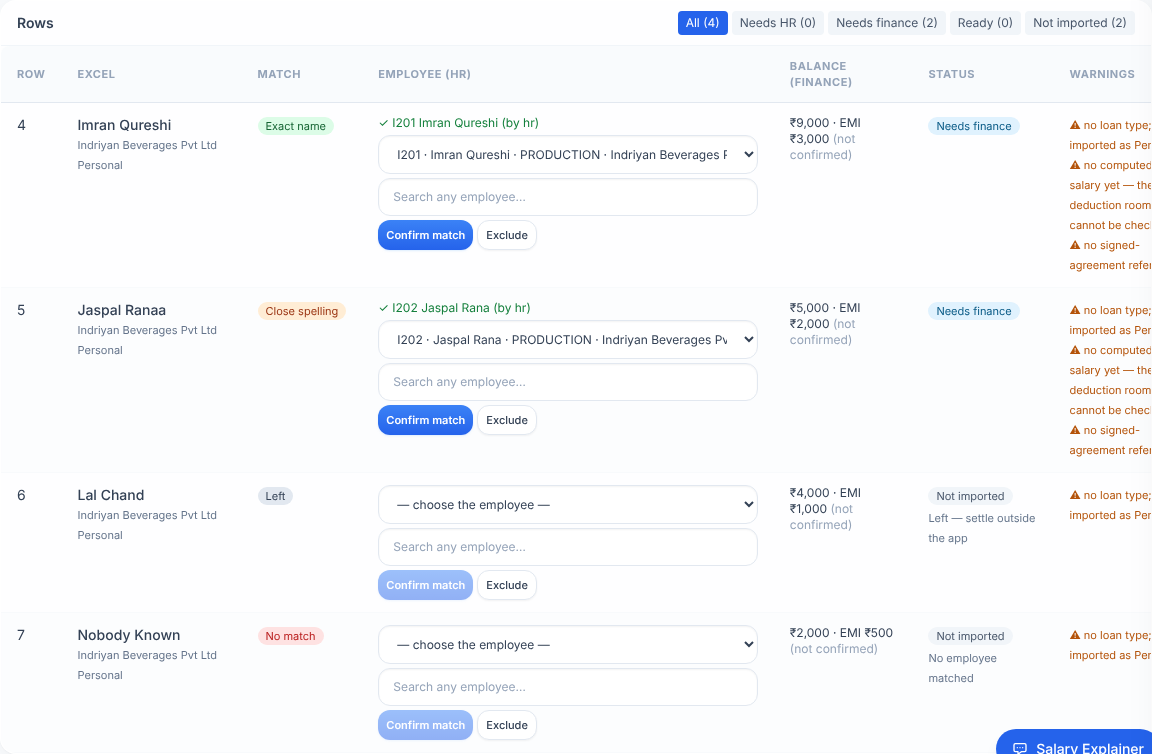
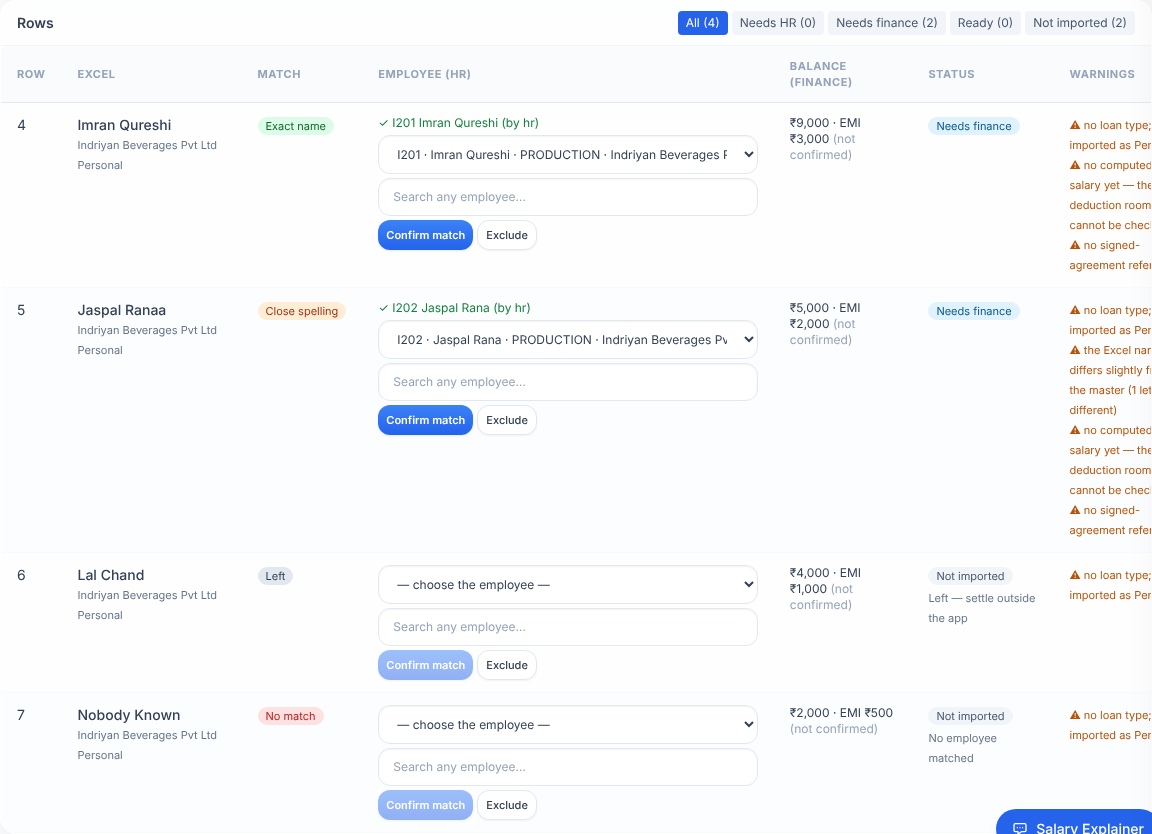
feat(loans-ui): import screen for code files — code tiers, balance-column hint and switch, name-differs note
Code tiers (Code match / name spelt differently / NAME DIFFERS), the code
shown beside the Excel name, a hint when the file has several balance
columns, a 'Balance and EMI columns' card for the uploader or admin
(resets finance confirmations), a note field when the names differ, and
balance inputs that refresh after a column change (EMI 0 cannot be
confirmed). Browser Pass 6: +7 checks on a synthetic Punch No file
(183/183 overall).

Claude-Session: https://claude.ai/code/session_01VCvRQJWVkbNaoEzGMzD9hk

diff --git a/frontend/src/components/loans/LoanImport.jsx b/frontend/src/components/loans/LoanImport.jsx
@@ -10,7 +10,7 @@ import toast from 'react-hot-toast'
 import clsx from 'clsx'
 import {
   downloadLoanImportTemplate, parseLoanImport, createLoanImportBatch, getLoanImportBatches, getLoanImportBatch,
-  confirmLoanImportMatch, excludeLoanImportRow, confirmLoanImportBalance, approveLoanImportBatch, discardLoanImportBatch,
+  confirmLoanImportMatch, excludeLoanImportRow, confirmLoanImportBalance, approveLoanImportBatch, discardLoanImportBatch, remapLoanImportColumns,
   getLoanImportCutoverCheck, downloadLoanImportCutoverCheck, searchLoanBorrowers,
 } from '../../utils/api'
 import { LOAN_COMPANIES, rupees, monthLabel, istDateTime, errText, sameUser } from './loanUi'
@@ -21,6 +21,9 @@ const TIER = {
   close: { label: 'Close spelling', cls: 'bg-orange-100 text-orange-800' },
   none: { label: 'No match', cls: 'bg-red-100 text-red-700' },
   inactive: { label: 'Left', cls: 'bg-slate-200 text-slate-700' },
+  code: { label: 'Code match', cls: 'bg-green-100 text-green-800' },
+  code_close: { label: 'Code · name spelt differently', cls: 'bg-lime-100 text-lime-800' },
+  code_mismatch: { label: 'Code · NAME DIFFERS', cls: 'bg-red-100 text-red-700' },
 }
 const STATE = {
   needs_match: { label: 'Needs HR', cls: 'bg-amber-100 text-amber-800' },
@@ -132,6 +135,12 @@ function UploadPanel({ onCreated }) {
                 ? `Sheet "${parsed.sheetName}", header on row ${parsed.headerRow}: ${parsed.rowCount} rows (${parsed.invalidCount} with a problem). Check the column mapping, then create the batch.`
                 : `Map the columns: ${parsed.error}`}
             </div>
+            {(parsed.balanceColumns || []).length > 1 && (
+              <div className="rounded-lg bg-sky-50 text-sky-800 px-3 py-2 text-xs" data-testid="imp-balance-hint">
+                The file has {parsed.balanceColumns.length} balance columns ({parsed.balanceColumns.map((i) => `"${(parsed.headers.find((h) => h.index === i) || {}).text}"`).join(', ')}).
+                The last one is used as the outstanding by default. Pick the balance <strong>before the cutover month's EMI</strong> — it can also be changed on the batch later (uploader or admin).
+              </div>
+            )}
             <div className="grid sm:grid-cols-2 lg:grid-cols-5 gap-2" data-testid="imp-mapping">
               {(parsed.fields || []).map((f) => (
                 <label key={f.key} className="text-xs">
@@ -145,7 +154,7 @@ function UploadPanel({ onCreated }) {
               ))}
               {mapping.company === undefined && (
                 <label className="text-xs">
-                  <span className="text-slate-500">Company for every row *</span>
+                  <span className="text-slate-500">{mapping.code !== undefined ? 'Company where the employee master has none' : 'Company for every row *'}</span>
                   <select className="select text-xs w-full" value={defaultCompany} onChange={(e) => setDefaultCompany(e.target.value)} data-testid="imp-default-company">
                     <option value="">— choose —</option>
                     {LOAN_COMPANIES.map((c) => <option key={c} value={c}>{c}</option>)}
@@ -254,7 +263,10 @@ function MatchCell({ row, batchId, editable, onDone }) {
           </select>
         )}
       <BorrowerSearch onPick={setOffList} />
-      {offList && <input className="input text-xs w-full" placeholder="Note (required for an employee not proposed)" value={note} onChange={(e) => setNote(e.target.value)} />}
+      {(offList || row.match_tier === 'code_mismatch') && (
+        <input className="input text-xs w-full" data-testid={`imp-match-note-${row.row_no}`}
+          placeholder={offList ? 'Note (required for an employee not proposed)' : 'Note (required — the Excel name differs from the master)'} value={note} onChange={(e) => setNote(e.target.value)} />
+      )}
       <div className="flex gap-1">
         <button className="btn-primary text-[11px] px-2 py-1" disabled={(!sel && !offList) || confirm.isPending} onClick={() => confirm.mutate()} data-testid={`imp-confirm-${row.row_no}`}>Confirm match</button>
         {!excluding && <button className="btn-secondary text-[11px] px-2 py-1" onClick={() => setExcluding(true)} data-testid={`imp-exclude-${row.row_no}`}>Exclude</button>}
@@ -299,7 +311,7 @@ function BalanceCell({ row, batchId, editable, onDone }) {
       </div>
       {excel}
       {changed && <input className="input text-xs w-full" placeholder="Note (required — why it differs from the Excel)" value={note} onChange={(e) => setNote(e.target.value)} data-testid={`imp-note-${row.row_no}`} />}
-      <button className="btn-primary text-[11px] px-2 py-1" disabled={save.isPending || (changed && note.trim().length < 5)} onClick={() => save.mutate()} data-testid={`imp-balance-confirm-${row.row_no}`}>Confirm balance</button>
+      <button className="btn-primary text-[11px] px-2 py-1" disabled={save.isPending || !(Number(out) > 0) || !(Number(emi) > 0) || (changed && note.trim().length < 5)} onClick={() => save.mutate()} data-testid={`imp-balance-confirm-${row.row_no}`}>Confirm balance</button>
     </div>
   )
 }
@@ -413,6 +425,42 @@ function CutoverCheck({ batch }) {
   )
 }
 
+/** Which column is the cutover outstanding / the EMI — re-choosable on a batch in review (uploader or admin). */
+function ColumnsCard({ batch, onDone }) {
+  const cm = batch.column_map || {}
+  const headers = cm.headers || []
+  const balances = cm.balanceColumns || []
+  const [out, setOut] = useState(cm.mapping?.outstanding ?? '')
+  const [emi, setEmi] = useState(cm.mapping?.emi ?? '')
+  const save = useMutation({
+    mutationFn: () => remapLoanImportColumns(batch.id, { outstanding: Number(out), emi: Number(emi) }),
+    onSuccess: (res) => { const r = res.data.data; toast.success(`Columns: "${r.outstandingColumn}" / "${r.emiColumn}" — ${r.rowsChanged} row(s) changed, ${r.confirmationsReset} finance confirmation(s) reset`); onDone() },
+    onError: (err) => toast.error(errText(err, 'Could not change the columns')),
+  })
+  if (!headers.length) return null
+  const changed = Number(out) !== cm.mapping?.outstanding || Number(emi) !== cm.mapping?.emi
+  return (
+    <Card title="Balance and EMI columns" testid="imp-columns">
+      <div className="p-4 flex items-end gap-3 flex-wrap text-xs">
+        <label>
+          <div className="text-slate-500">Cutover outstanding (balance before the cutover month's EMI)</div>
+          <select className="select text-xs w-64" value={out} onChange={(e) => setOut(e.target.value)} data-testid="imp-cols-outstanding">
+            {headers.map((h) => <option key={h.index} value={h.index}>{h.text}{balances.includes(h.index) ? ' (balance column)' : ''}</option>)}
+          </select>
+        </label>
+        <label>
+          <div className="text-slate-500">Monthly EMI</div>
+          <select className="select text-xs w-56" value={emi} onChange={(e) => setEmi(e.target.value)} data-testid="imp-cols-emi">
+            {headers.map((h) => <option key={h.index} value={h.index}>{h.text}</option>)}
+          </select>
+        </label>
+        <button className="btn-secondary text-xs" disabled={!changed || save.isPending} onClick={() => save.mutate()} data-testid="imp-cols-apply">Apply</button>
+        <span className="text-slate-400">Changing a column resets every finance balance confirmation.</span>
+      </div>
+    </Card>
+  )
+}
+
 function BatchView({ id, caps, onBack }) {
   const qc = useQueryClient()
   const [filter, setFilter] = useState('all')
@@ -458,6 +506,8 @@ function BatchView({ id, caps, onBack }) {
         </div>
       )}
 
+      {review && (caps.role === 'admin' || sameUser(b.uploaded_by, caps.username)) && <ColumnsCard batch={b} onDone={refresh} />}
+
       {leftRows.length > 0 && (
         <Card title={`Left — settle outside the app (${leftRows.length})`} testid="imp-left">
           <table className="table-compact w-full text-xs">
@@ -488,14 +538,14 @@ function BatchView({ id, caps, onBack }) {
               return (
                 <tr key={r.id} data-testid={`imp-row-${r.row_no}`} className="align-top">
                   <td>{r.row_no}</td>
-                  <td className="min-w-[180px]"><div className="font-medium">{r.name || '—'}</div>
+                  <td className="min-w-[180px]"><div className="font-medium">{r.code && <span className="font-mono text-slate-500 mr-1">{r.code}</span>}{r.name || '—'}</div>
                     <div className="text-[11px] text-slate-500">{r.company || '—'}{r.department ? ` · ${r.department}` : ''}{r.loan_date ? ` · ${r.loan_date}` : ''}</div>
                     <div className="text-[11px] text-slate-500">{r.loan_type}{r.agreement_ref ? ` · ${r.agreement_ref}` : ''}</div>
                     {(r.parse_errors || []).length > 0 && r.parse_status !== 'ok' && <div className="text-[11px] text-red-600">{r.parse_errors.map((e) => e.message).join('; ')}</div>}
                   </td>
                   <td>{r.match_tier ? <Chip map={TIER} k={r.match_tier} testid={`imp-tier-${r.row_no}`} /> : '—'}</td>
-                  <td><MatchCell row={r} batchId={b.id} editable={review && caps.role === 'hr' && importable} onDone={refresh} /></td>
-                  <td>{r.parse_status === 'duplicate' ? '—' : <BalanceCell row={r} batchId={b.id} editable={review && caps.role === 'finance' && importable} onDone={refresh} />}</td>
+                  <td><MatchCell key={`${r.id}|${r.match_status}|${r.employee_code}`} row={r} batchId={b.id} editable={review && caps.role === 'hr' && importable} onDone={refresh} /></td>
+                  <td>{r.parse_status === 'duplicate' ? '—' : <BalanceCell key={`${r.id}|${r.outstanding}|${r.emi}|${r.balance_status}`} row={r} batchId={b.id} editable={review && caps.role === 'finance' && importable} onDone={refresh} />}</td>
                   <td><Chip map={STATE} k={r.outcome === 'imported' ? 'imported' : r.state} testid={`imp-state-${r.row_no}`} />{r.outLabel && <div className="text-[11px] text-slate-500 mt-0.5">{r.outLabel}</div>}
                     {r.loan_id && <div><a className="text-blue-600" href={`/loans/${r.loan_id}`}>Loan #{r.loan_id}</a></div>}</td>
                   <td className="max-w-[260px]">{(r.warnings || []).map((w) => <div key={w.code} className="text-[11px] text-amber-700" title={w.message}>⚠ {w.message}</div>)}</td>

diff --git a/frontend/src/utils/api.js b/frontend/src/utils/api.js
@@ -209,6 +209,7 @@ export const getLoanImportBatch = (id, params) => api.get(`/loans/import/batches
 export const confirmLoanImportMatch = (id, rid, data) => api.post(`/loans/import/batches/${id}/rows/${rid}/match`, data)
 export const excludeLoanImportRow = (id, rid, data) => api.post(`/loans/import/batches/${id}/rows/${rid}/exclude`, data)
 export const confirmLoanImportBalance = (id, rid, data) => api.post(`/loans/import/batches/${id}/rows/${rid}/balance`, data)
+export const remapLoanImportColumns = (id, data) => api.post(`/loans/import/batches/${id}/columns`, data)
 export const approveLoanImportBatch = (id, data) => api.post(`/loans/import/batches/${id}/approve`, data)
 export const discardLoanImportBatch = (id, data) => api.post(`/loans/import/batches/${id}/discard`, data)
 export const getLoanImportCutoverCheck = (id, params) => api.get(`/loans/import/batches/${id}/cutover-check`, { params, ...fresh })

diff --git a/backend/scripts/loans-ui-browser-check.py b/backend/scripts/loans-ui-browser-check.py
@@ -1081,6 +1081,23 @@ XLSX.writeFile(wb, out);
 '''
 
 
+IMPORT_CODE_XLSX_JS = r'''
+const [root, out] = process.argv.slice(2);
+const XLSX = require(root + '/backend/node_modules/xlsx');
+const wb = XLSX.utils.book_new();
+XLSX.utils.book_append_sheet(wb, XLSX.utils.aoa_to_sheet([
+  ['Loan Register'], [],
+  ['Punch No', 'Name', 'Pending Loan Amount ', 'Deduct per month Aug ', 'Op sep'],
+  ['I203', 'Komal Dutt', 12000, 3000, 9000],
+  ['I201', 'Imran Sheikh', 8000, 2000, 6000],
+  ['I202', 'Jaspal Rana', 6000, 0, 6000],
+  [null, null, null, null, null],
+  [null, 'Total', 26000, 5000, 21000],
+]), 'Sheet1');
+XLSX.writeFile(wb, out);
+'''
+
+
 def run_import_pass(db_path, hr, admin, fin, viewer):
     print('\n— Pass 6: import from the accounts Excel (Loans PR-10) —')
     con = sqlite3.connect(db_path, timeout=10)
@@ -1178,6 +1195,33 @@ def run_import_pass(db_path, hr, admin, fin, viewer):
     viewer.get_by_test_id(f'imp-batch-{batch_id}').click()
     viewer.get_by_test_id('imp-batch').wait_for(timeout=15000)
     check('viewer: no confirm / approve controls', viewer.locator('[data-testid^="imp-confirm-"], [data-testid="imp-approve-go"]').count() == 0)
+
+    # PR-10 follow-up: the accounts layout (Punch No, two balance columns, EMI 0, Total row) — synthetic.
+    js2 = os.path.join(work, 'import-code-xlsx.js')
+    with open(js2, 'w') as f:
+        f.write(IMPORT_CODE_XLSX_JS)
+    xlsx2 = os.path.join(work, 'punch_loans.xlsx')
+    subprocess.check_call(['node', js2, ROOT, xlsx2])
+    fin.goto(f'{BASE}/loans?tab=import')
+    fin.get_by_test_id('imp-file').set_input_files(xlsx2)
+    fin.get_by_test_id('imp-parse-status').wait_for(timeout=15000)
+    check('code file: two balance columns → the hint; mapped without a step', visible(fin, 'imp-balance-hint')
+          and 'Check the column mapping' in fin.get_by_test_id('imp-parse-status').inner_text())
+    shot(fin, '07-code-file-mapping', element='imp-upload', out=OUT10)
+    fin.get_by_test_id('imp-create').click()
+    check('code file: batch created by finance', toast(fin, 'created: 3 rows') and visible(fin, 'imp-batch', 15000))
+    check('code file: tiers by code (exact, name differs, EMI missing row)', fin.get_by_test_id('imp-tier-4').inner_text() == 'Code match'
+          and fin.get_by_test_id('imp-tier-5').inner_text() == 'Code · NAME DIFFERS', [fin.get_by_test_id('imp-tier-4').inner_text(), fin.get_by_test_id('imp-tier-5').inner_text()])
+    check('code file: the uploader sees the columns card', visible(fin, 'imp-columns'))
+    fin.get_by_test_id('imp-cols-outstanding').select_option(label='Pending Loan Amount (balance column)')
+    fin.get_by_test_id('imp-cols-apply').click()
+    check('code file: re-choosing the balance column (toast)', toast(fin, 'Columns: "Pending Loan Amount"'))
+    shot(fin, '08-code-file-batch', element='imp-batch', out=OUT10)
+    hr.goto(f'{BASE}/loans?tab=import')
+    hr.locator('[data-testid^="imp-batch-"]').first.click()
+    hr.get_by_test_id('imp-batch').wait_for(timeout=15000)
+    check('code file: hr is not the uploader → no columns card', hr.get_by_test_id('imp-columns').count() == 0)
+    check('code file: a NAME DIFFERS row asks HR for a note', visible(hr, 'imp-match-note-5'))
 
 
 if __name__ == '__main__':
